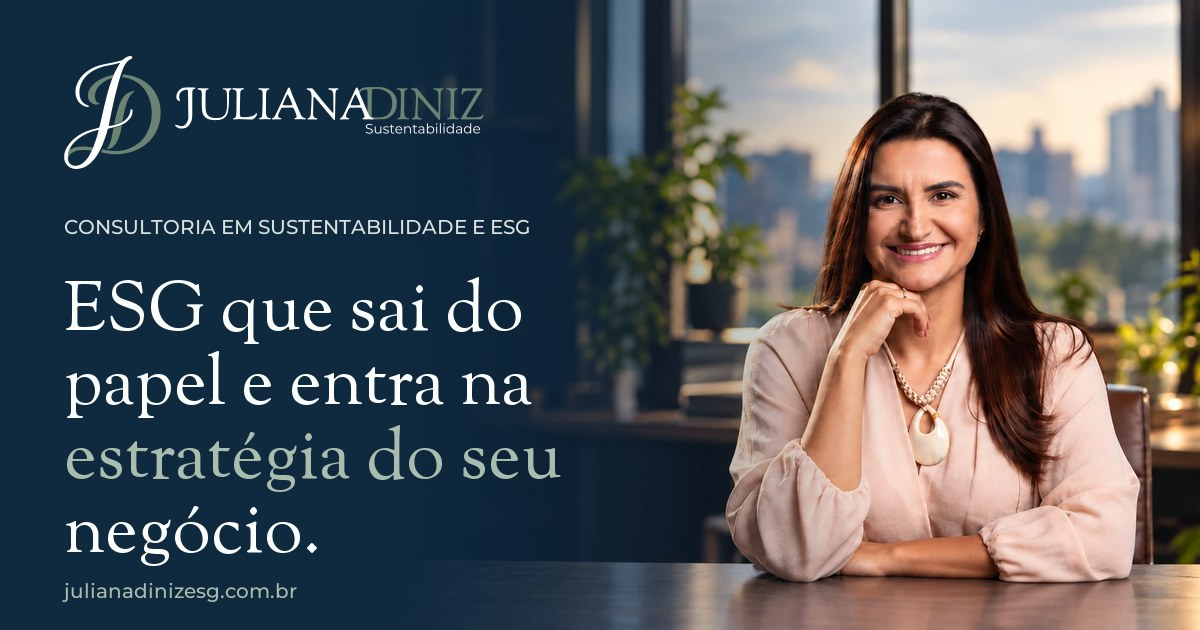
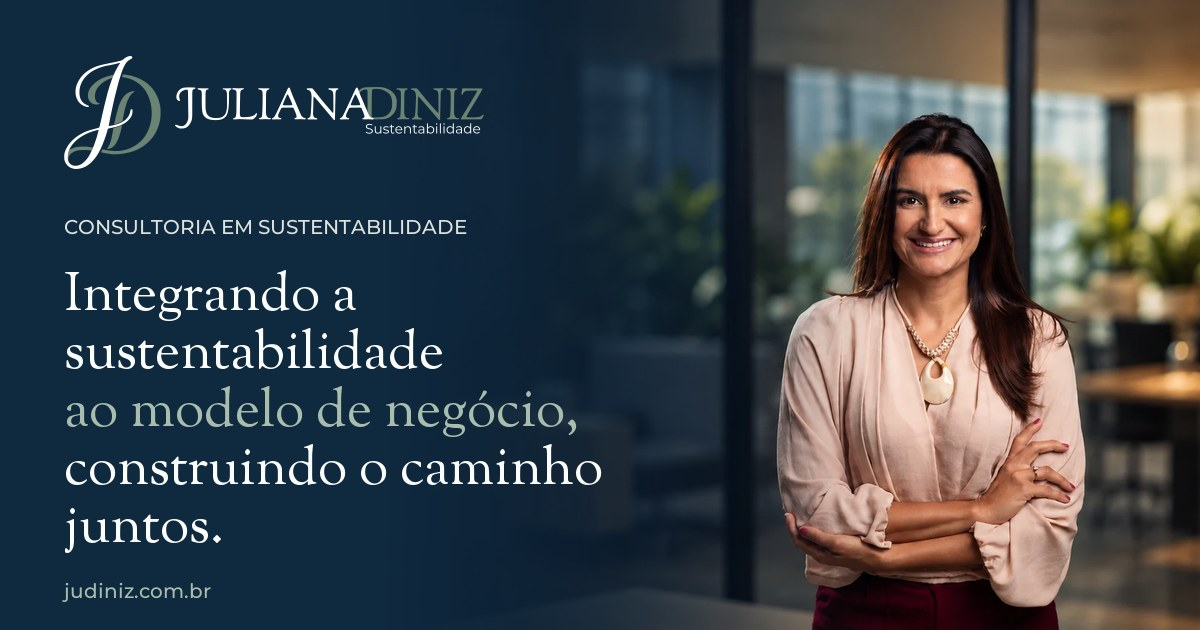
Atualiza a imagem de compartilhamento sem o ESG
O og.jpg passa a usar a foto atual do hero, o rótulo "Consultoria em
Sustentabilidade", o título do site e o endereço judiniz.com.br. O
gerar-og.py foi ajustado para esse texto.

diff --git a/scripts/gerar-og.py b/scripts/gerar-og.py
@@ -37,15 +37,16 @@ logo = Image.open("scripts/assets/logo-horizontal-escuro.png").convert("RGBA")  
 bg.paste(logo, (64, 56), logo)
 mont = ImageFont.truetype(os.path.join(tmp, "Montserrat.ttf"), 20)
 mont.set_variation_by_axes([500])
-goudy = ImageFont.truetype(os.path.join(tmp, "Goudy.ttf"), 70)
-d.text((64, 214), "CONSULTORIA EM SUSTENTABILIDADE E ESG", font=mont, fill=(220, 226, 222))
-y = 262
-for line in [[("ESG que sai do", 0)], [("papel e entra na", 0)], [("estratégia do seu", 1)], [("negócio.", 0)]]:
+goudy = ImageFont.truetype(os.path.join(tmp, "Goudy.ttf"), 54)
+d.text((64, 214), "CONSULTORIA EM SUSTENTABILIDADE", font=mont, fill=(220, 226, 222))
+y = 258
+# Título do hero do site (lib/content.ts), com o trecho em destaque.
+for line in [[("Integrando a", 0)], [("sustentabilidade", 0)], [("ao modelo de negócio,", 1)], [("construindo o caminho", 0)], [("juntos.", 0)]]:
     x = 64
     for text, hl in line:
         d.text((x, y), text, font=goudy, fill=SAGE300 if hl else (252, 253, 253))
         x += d.textlength(text + " ", font=goudy)
-    y += 74
+    y += 58
 d.text((64, H - 52), "judiniz.com.br", font=mont, fill=SAGE300)
 bg.save("public/og.jpg", quality=88, optimize=True, progressive=True)
 print("public/og.jpg gerado")
